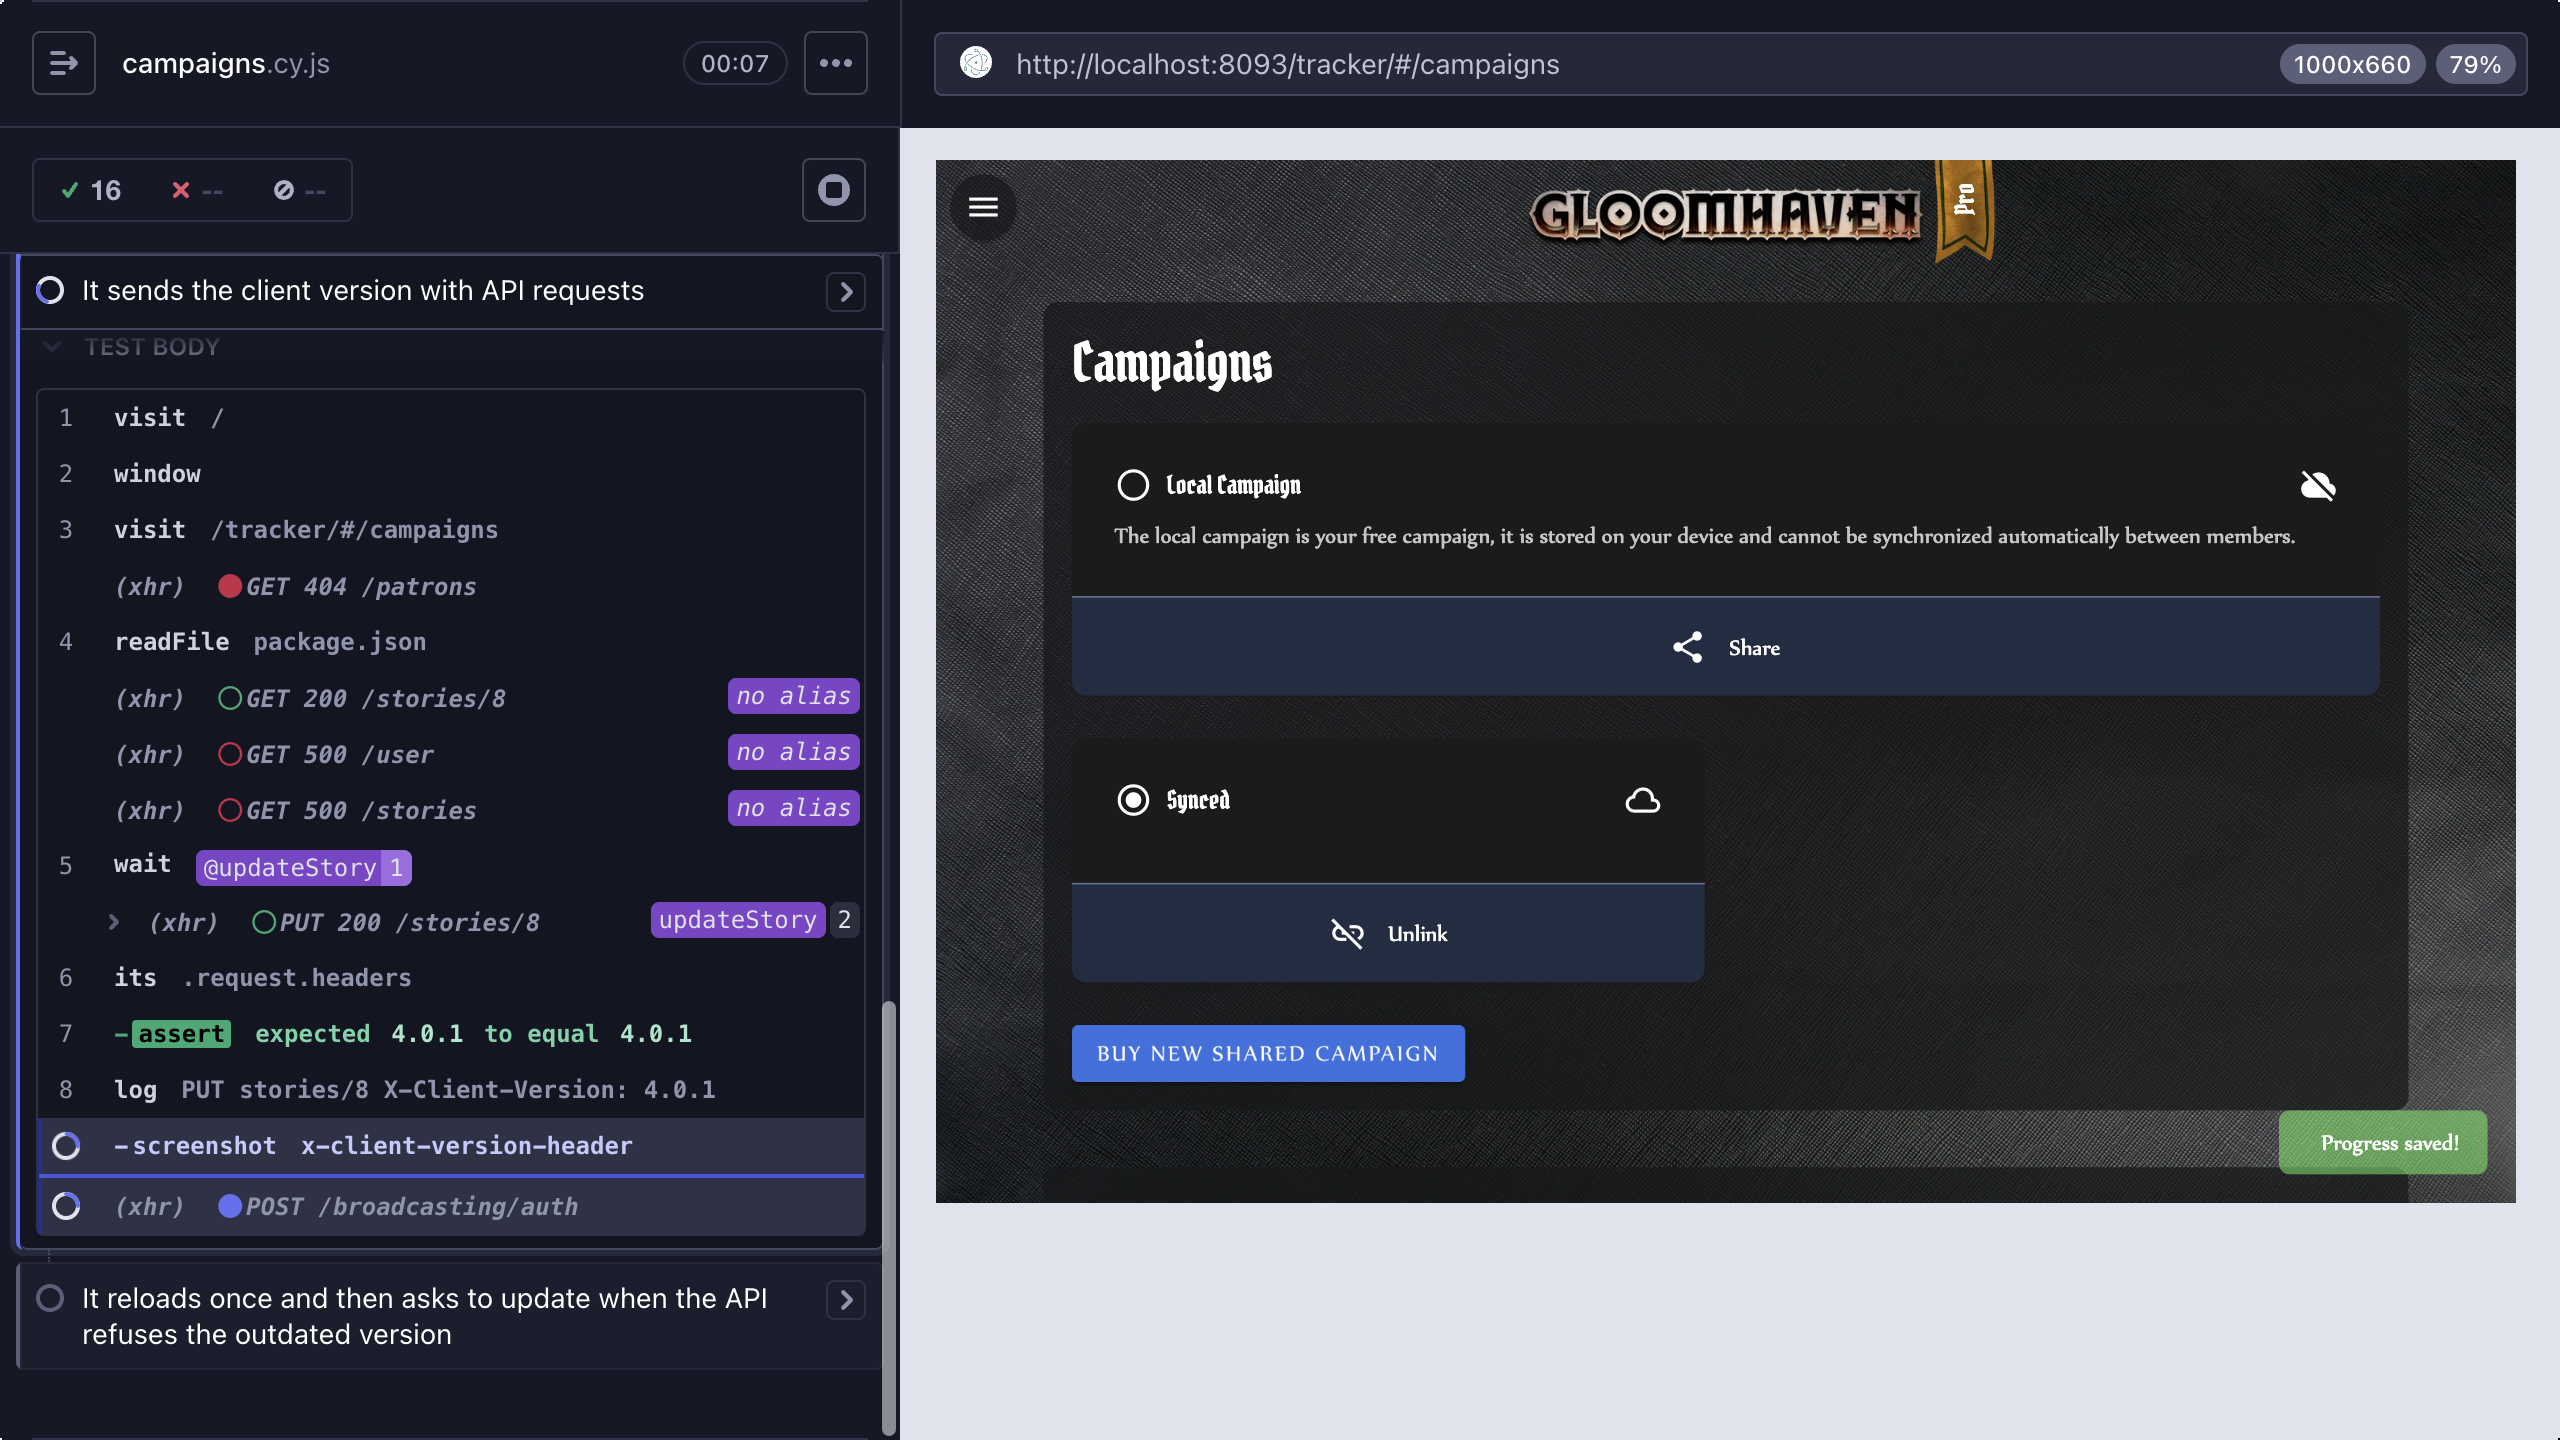
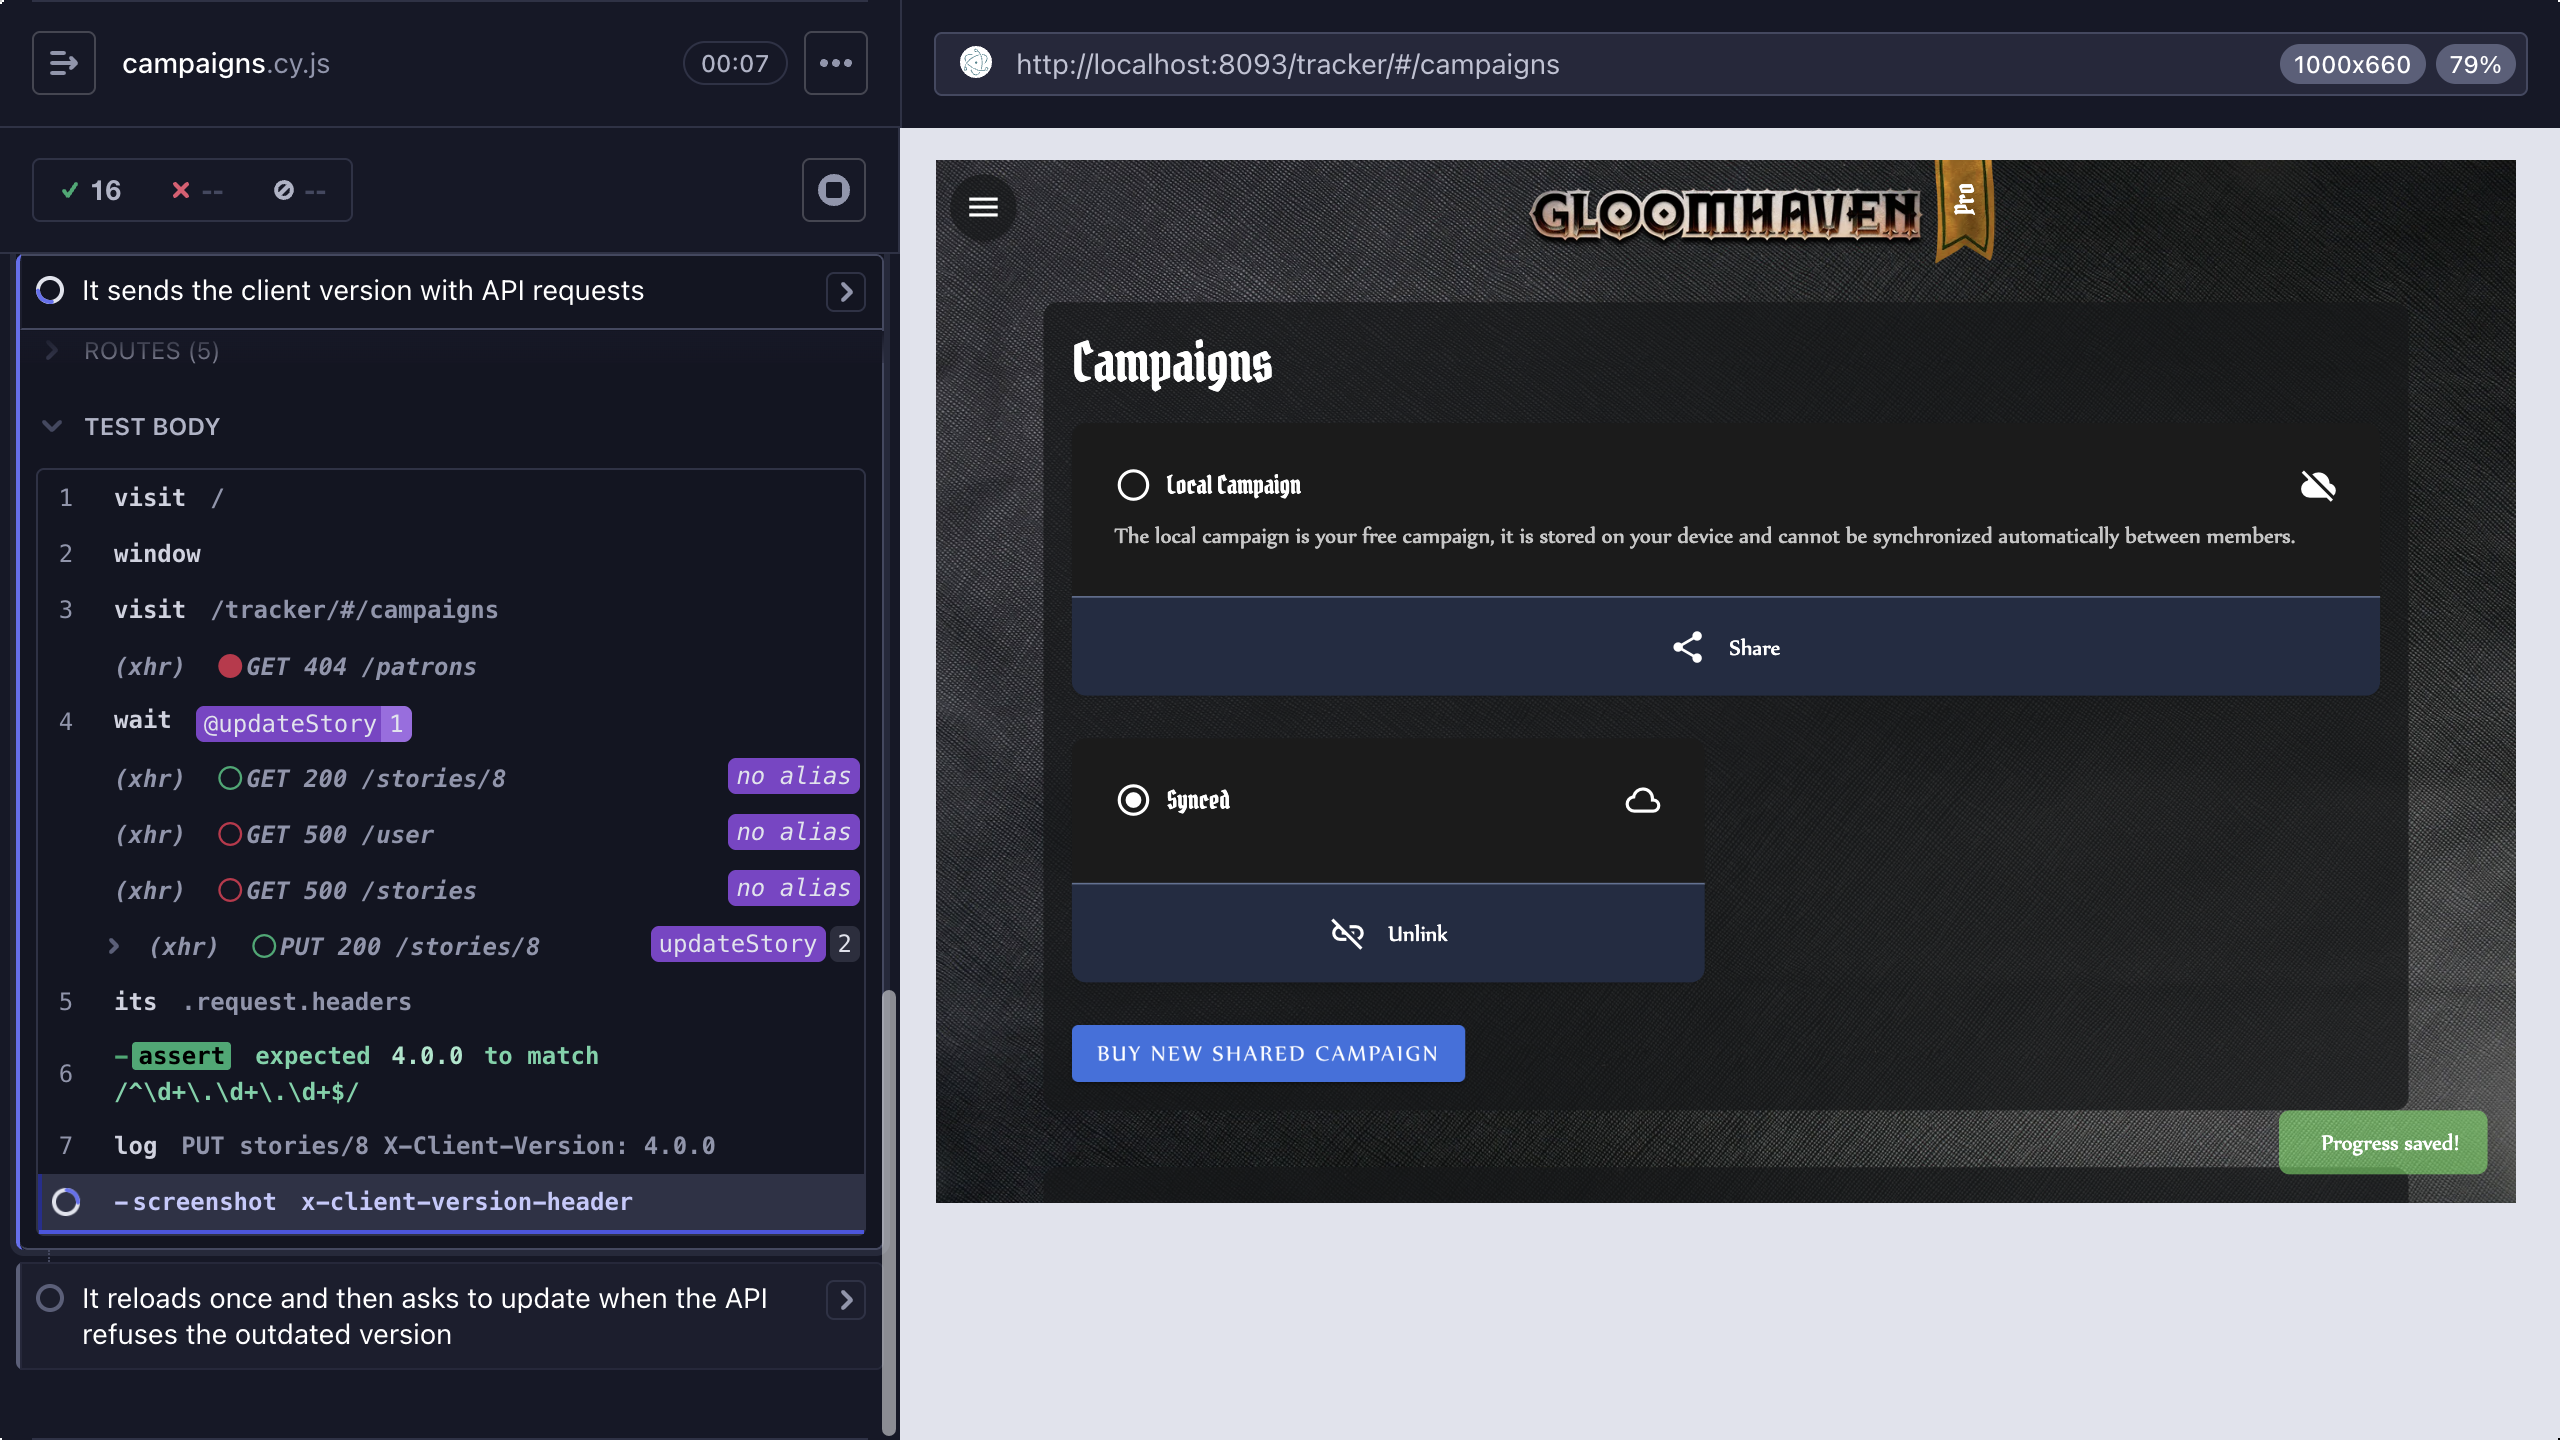
Take the client version from the release tag instead of package.json (#463)
Netlify's production deploy requires an exact x.y.z tag on the deployed commit, so a stale
tag from its cached clone fails the deploy instead of shipping a version the API refuses.
Other builds (CI, local) use the latest reachable tag, or 0.0.0 without tags.

Changed region(s): [[0.0, 0.2812, 0.3438, 0.875], [0.25, 0.4688, 0.3438, 0.6875], [0.0312, 0.2188, 0.0938, 0.25]]

diff --git a/cypress/e2e/tracker/campaigns.cy.js b/cypress/e2e/tracker/campaigns.cy.js
@@ -291,12 +291,10 @@ describe('Campaigns', () => {
             // When the local progress is synced
             visitWithNewerLocalProgress();
 
-            // Then the request carries the package.json version
-            cy.readFile('package.json').then((pkg) => {
-                cy.wait('@updateStory').its('request.headers').then((headers) => {
-                    expect(headers['x-client-version']).to.equal(pkg.version);
-                    cy.log(`PUT stories/8 X-Client-Version: ${headers['x-client-version']}`);
-                });
+            // Then the request carries the release version
+            cy.wait('@updateStory').its('request.headers').then((headers) => {
+                expect(headers['x-client-version']).to.match(/^\d+\.\d+\.\d+$/);
+                cy.log(`PUT stories/8 X-Client-Version: ${headers['x-client-version']}`);
             });
             cy.screenshot('x-client-version-header', {capture: 'runner'});
         });

diff --git a/README.md b/README.md
@@ -136,7 +136,7 @@ End-to-end tests use [Cypress](https://www.cypress.io).
 
 *Releasing*
 
-- Bump `version` in `package.json` to the release tag (`npm version <x.y.z> --no-git-tag-version`): the tracker sends it to the API as `X-Client-Version` and tags Sentry events with it.
+- The build takes its version from the git release tag (`x.y.z`): the tracker sends it to the API as `X-Client-Version` and tags Sentry events with it. Push master together with its tag (`git push --atomic origin master develop --tags`). Netlify's production deploy fetches the tags first (`git fetch --force origin "refs/tags/*:refs/tags/*"`) and fails when the deployed commit has no release tag.
 
 After changes are made, open a Pull Request into the develop branch for review. 
 
